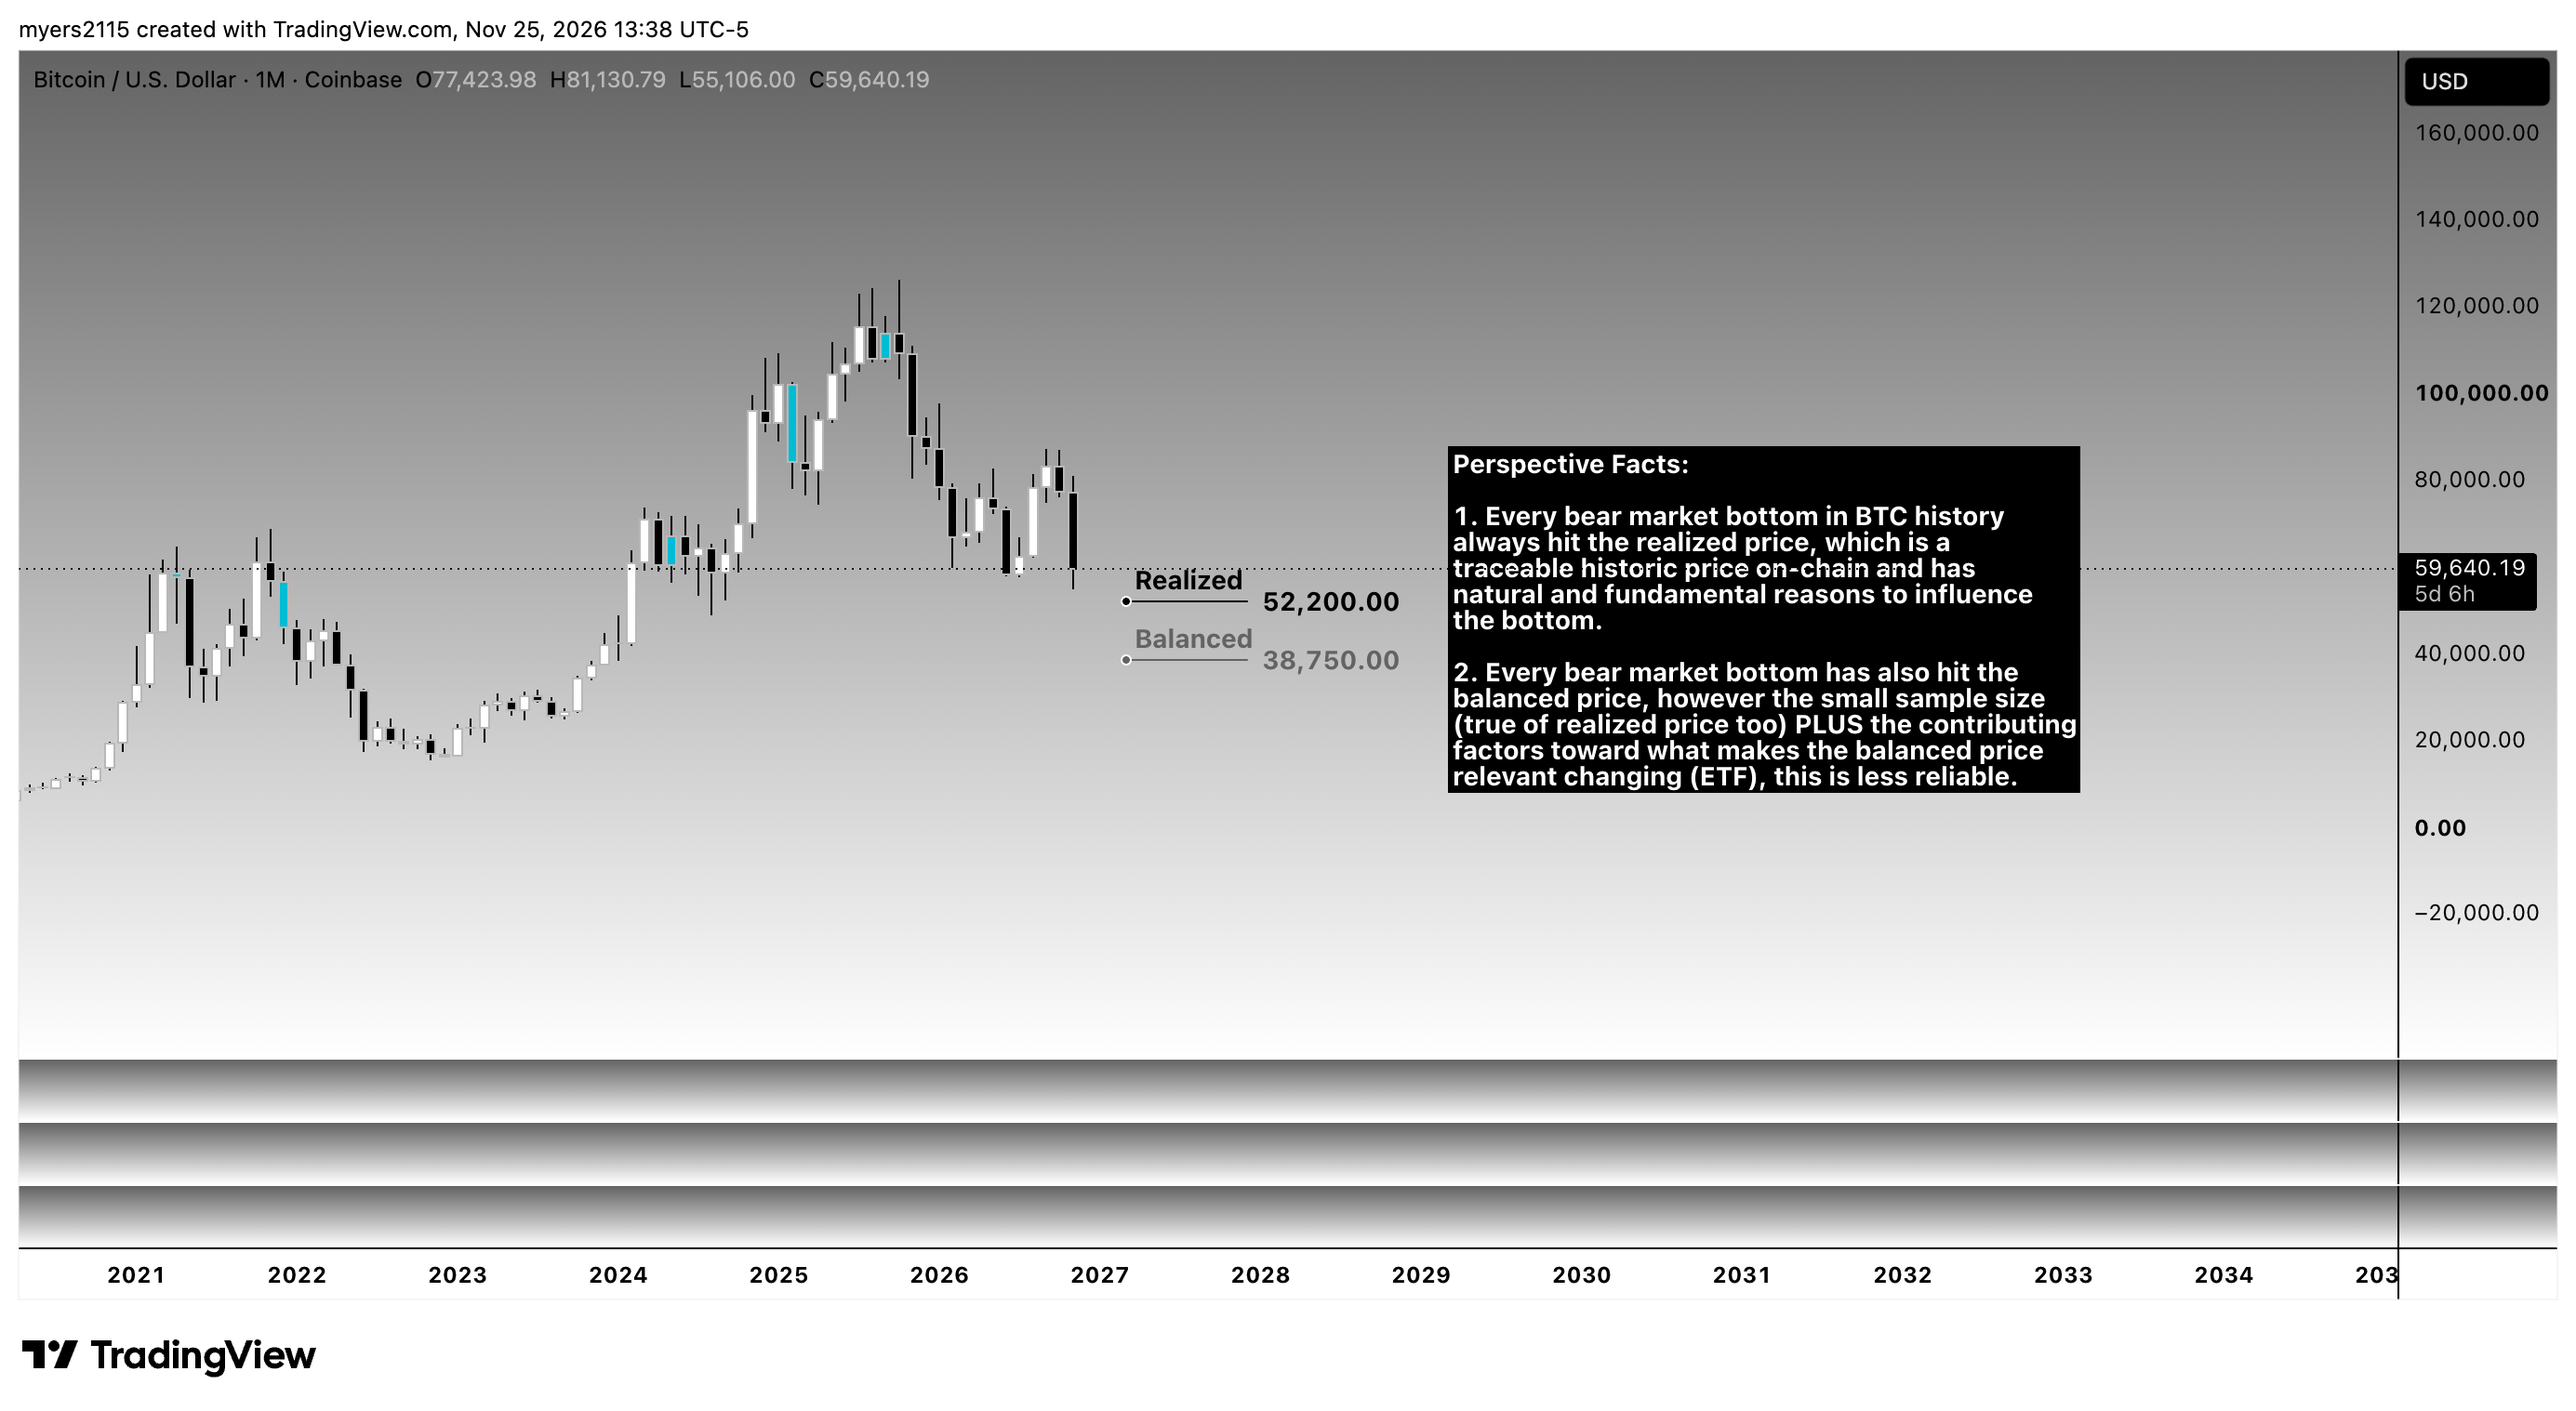
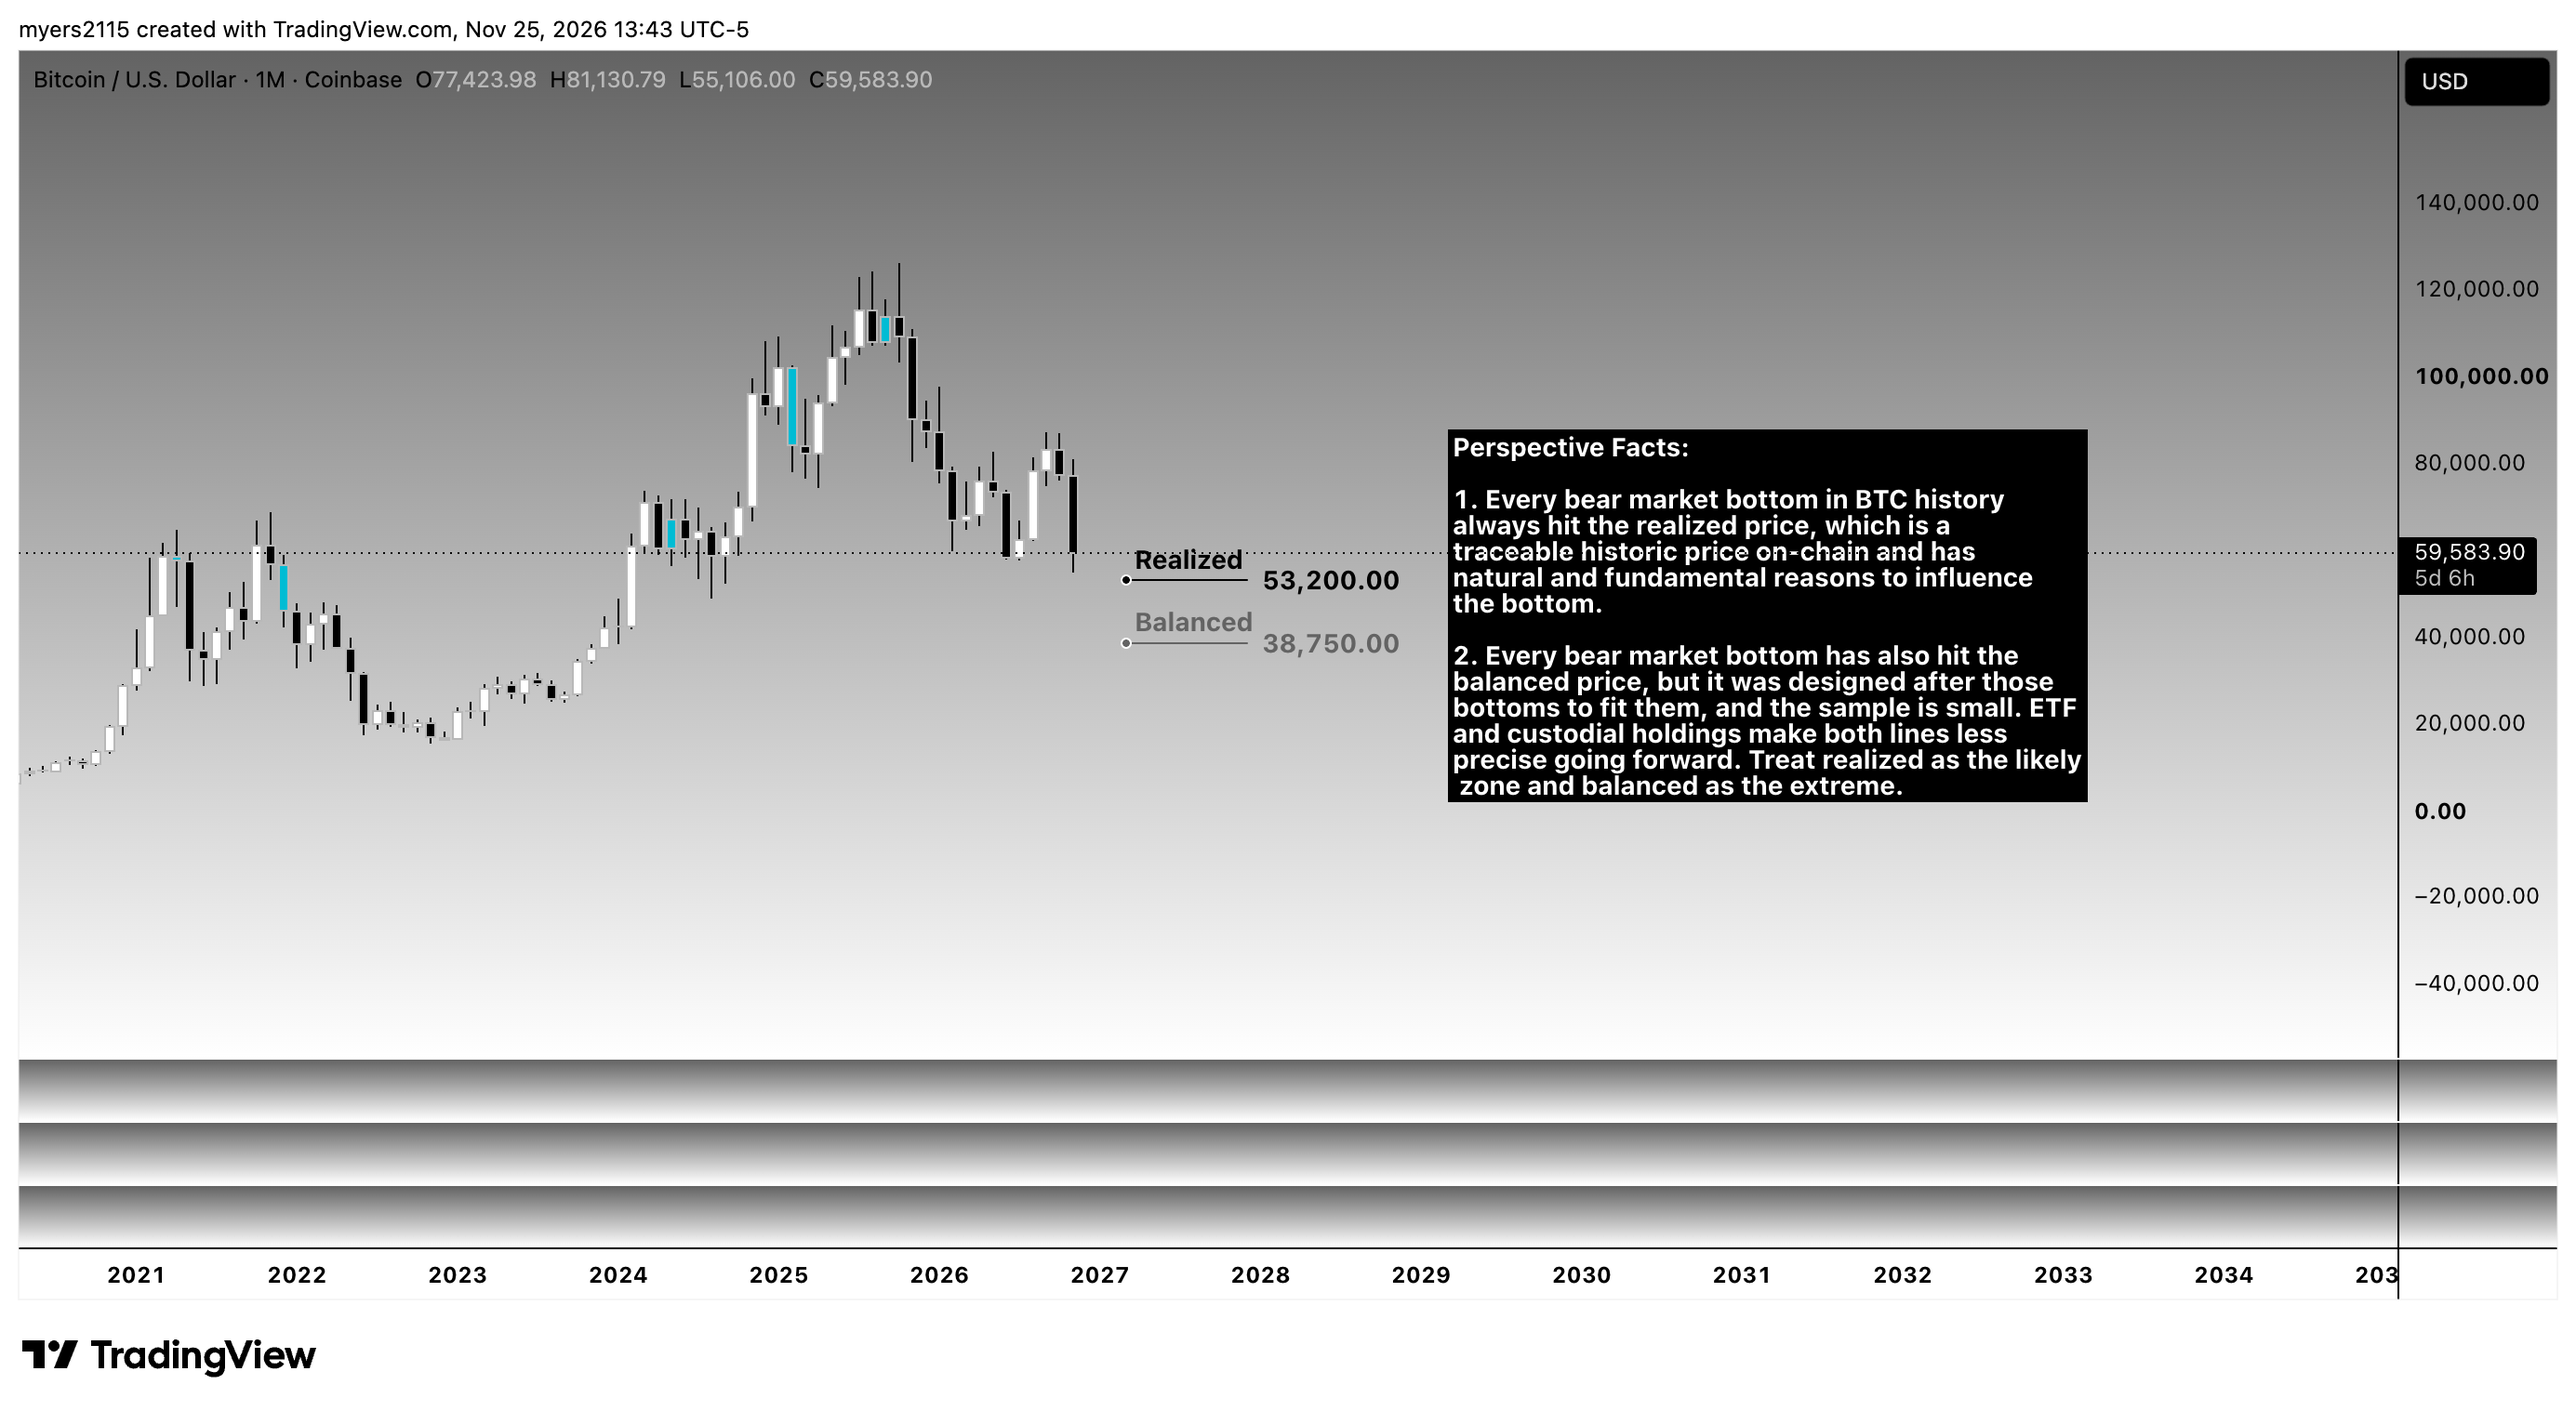
Jay log: Exhibit F corrected version
Claude-Session: https://claude.ai/code/session_01F896WnGGH3b7FsqerYM1ic

diff --git a/research/jay_chats/README.md b/research/jay_chats/README.md
@@ -85,7 +85,7 @@ Broadening (megaphone) pattern on the monthly, linear scale:
 ## Exhibit F (Nov 25 2026): realized and balanced price, "Perspective Facts", Matt's chart
 ![Exhibit F](exhibits/exhibit_F_2026-11-25_btc_realized_balanced.png)
 
-- On-chain levels (Nov 24-25 2026): **realized price ~$53,200** (Glassnode; the chart label reads 52,200), **balanced price ~$38,750** (Coinglass, Nov 20, falling ~2%/month).
+- On-chain levels (Nov 24-25 2026): **realized price ~$53,200** (Glassnode), **balanced price ~$38,750** (Coinglass, Nov 20, falling ~2%/month).
 - Every bear-market bottom (2015, 2018, COVID 2020, 2022) went below realized price (0.69x-0.88x at the lows; up to 301 days below) and reached balanced price.
 - Why realized is the more reliable of the two: natural definition (aggregate cost basis) + a mechanism (break-even psychology; capitulation re-stamps coins low and pulls the line toward price). Balanced price was built after past bottoms to fit them (hindsight risk).
 - ETF/custodial holdings ("measurement drift") make BOTH lines less precise going forward (balanced = realized minus transferred price), so treat realized as a zone, not a tick.
